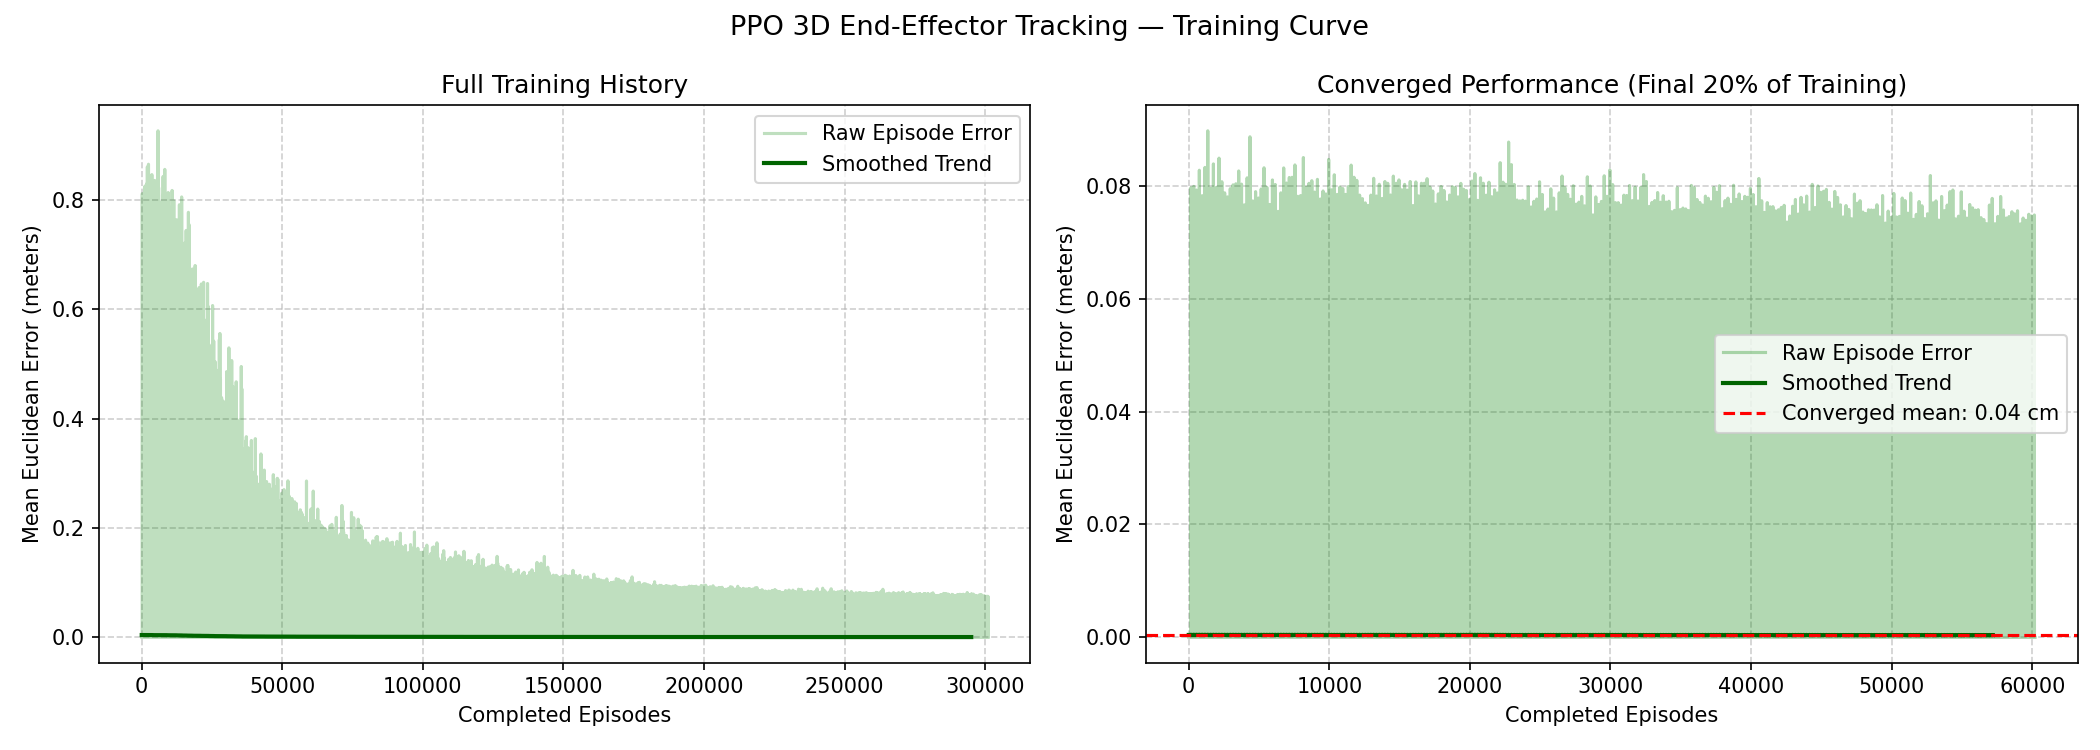
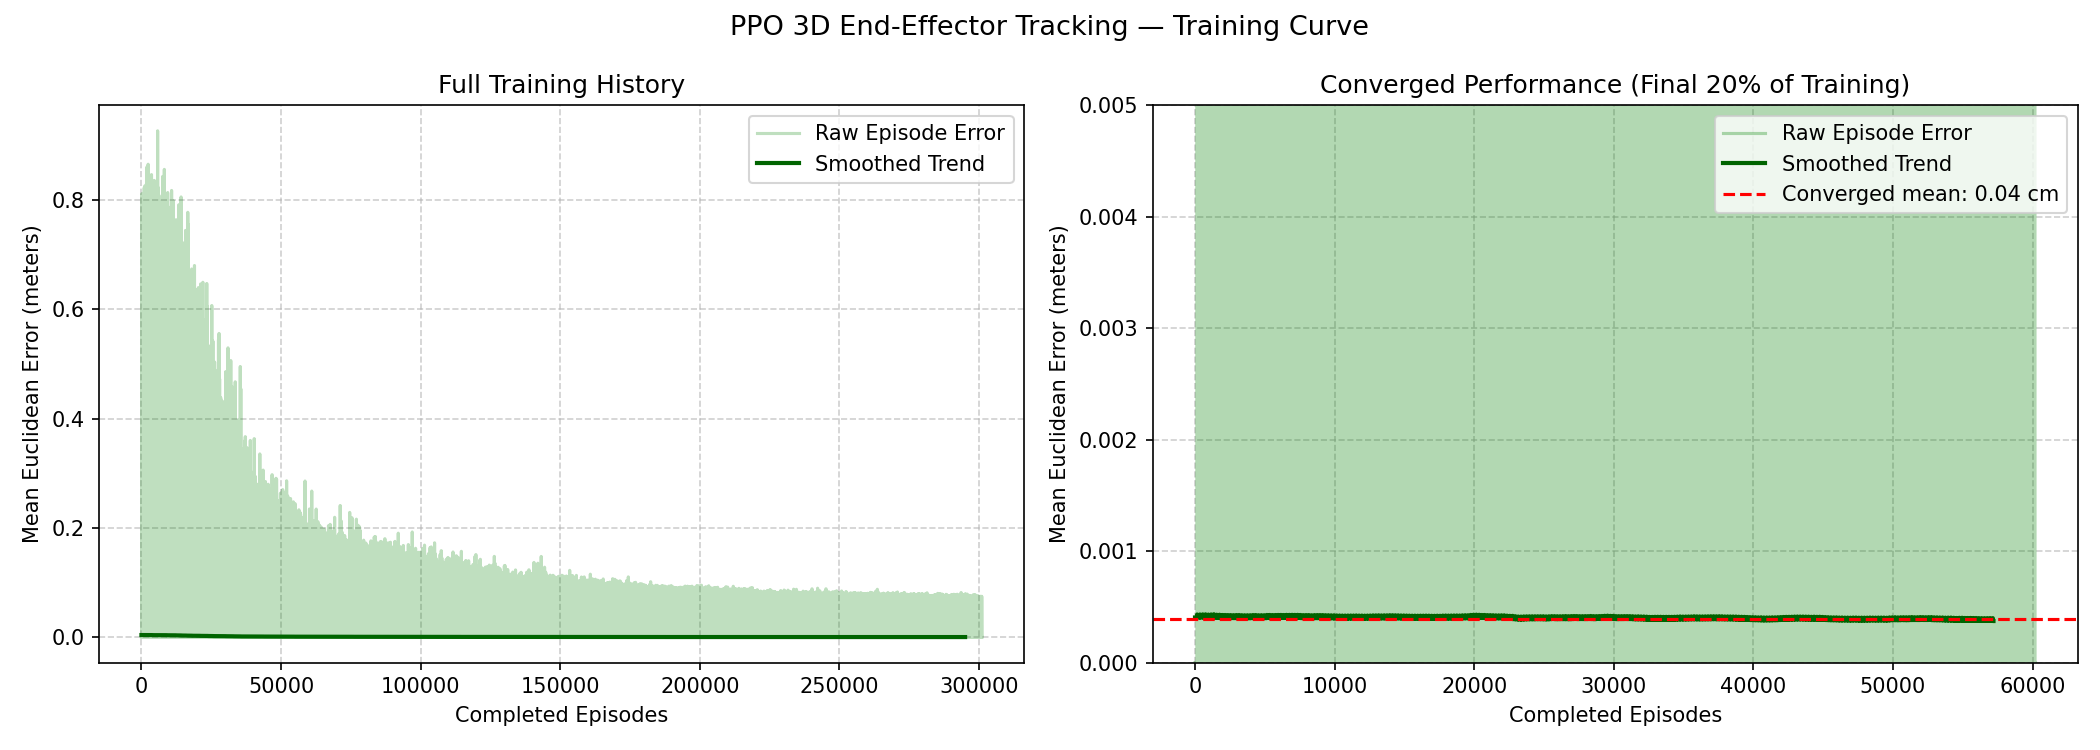
Final Video Demo and Tracking Performance Curve

diff --git a/3D_PyBullet_Final/evaluate_3d.py b/3D_PyBullet_Final/evaluate_3d.py
@@ -6,12 +6,10 @@ from stable_baselines3 import PPO
 from env_3d import TrajectoryTracking3DEnv
 import pybullet as p
 
-
 def smooth_curve(data, window_size=50):
     if len(data) < window_size:
         return data
     return np.convolve(data, np.ones(window_size) / window_size, mode='valid')
-
 
 def draw_trajectory_preview(env, num_points=200):
     """Draw the full desired trajectory as a static red dotted path in PyBullet."""
@@ -20,13 +18,12 @@ def draw_trajectory_preview(env, num_points=200):
         p.addUserDebugLine(
             pts[i].tolist(), pts[i + 1].tolist(),
             lineColorRGB=[1.0, 0.1, 0.1],
-            lineWidth=1.5,
+            lineWidth=3,
             lifeTime=0   # 0 = permanent
         )
     # Mark the start with a sphere-like cluster
     p.addUserDebugText("TARGET PATH", pts[0].tolist(),
                        textColorRGB=[1, 0, 0], textSize=1.2, lifeTime=0)
-
 
 def main():
     os.makedirs("results", exist_ok=True)
@@ -59,6 +56,8 @@ def main():
             ax2.set_title("Converged Performance (Final 20% of Training)")
             ax2.set_xlabel("Completed Episodes")
             ax2.set_ylabel("Mean Euclidean Error (meters)")
+            # Fix zoom level for tight error bars
+            ax2.set_ylim(0, 0.005)
             ax2.grid(True, linestyle="--", alpha=0.6)
             ax2.legend()
 
@@ -86,6 +85,15 @@ def main():
 
     obs, info = env.reset()
 
+    # ── CAMERA SETUP ──
+    camera_yaw = 225.0
+    p.resetDebugVisualizerCamera(
+        cameraDistance=1.2, 
+        cameraYaw=camera_yaw, 
+        cameraPitch=-10, 
+        cameraTargetPosition=[0.2, 0, 0.25]
+    )
+
     # ── Draw the full desired trajectory immediately on reset ─────────────────
     draw_trajectory_preview(env, num_points=env.max_steps)
 
@@ -110,13 +118,7 @@ def main():
                 lifeTime=0   # permanent — builds up the full path
             )
 
-        # ── Live target cursor (bright yellow dot) ────────────────────────────
-        p.addUserDebugText(
-            "◆", target_pos.tolist(),
-            textColorRGB=[1.0, 0.9, 0.0],
-            textSize=1.0,
-            lifeTime=0.08   # flickers along the path
-        )
+
 
         prev_ee = ee_pos.copy()
 
@@ -198,8 +200,10 @@ def main():
     plt.savefig("results/tracking_performance_3d.png", dpi=150, bbox_inches='tight')
     print("Saved: results/tracking_performance_3d.png")
 
-    env.close()
-
+    try:
+        env.close()
+    except Exception:
+        pass
 
 if __name__ == "__main__":
     main()